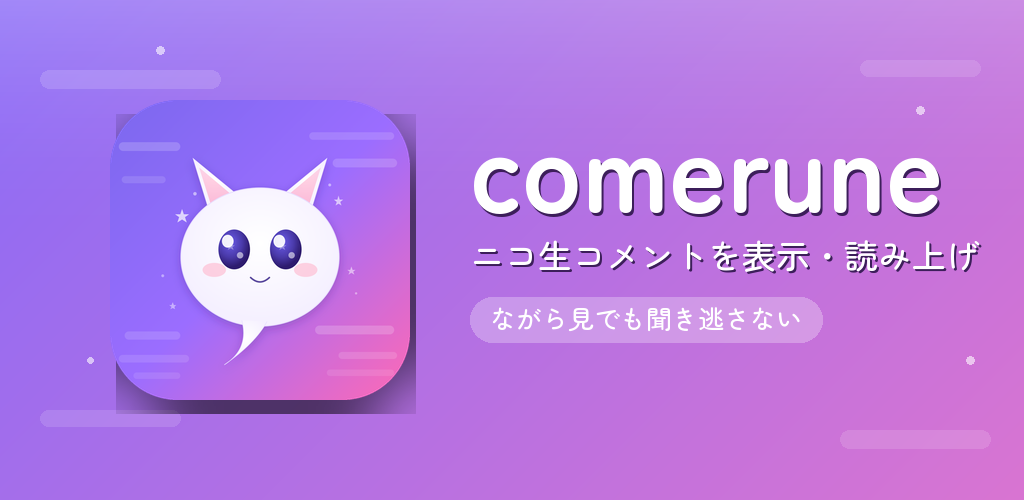
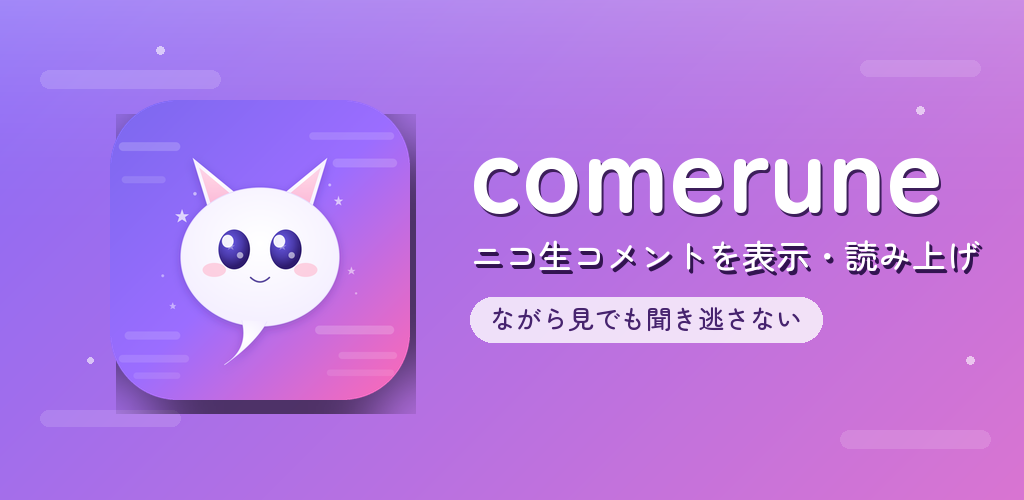
chore(play-store): move generator under scripts/google_play/ and improve contrast
- scripts/generate-play-store-feature-graphic.py
  → scripts/google_play/generate-feature-graphic.py
- scripts/fetch-play-store-fonts.sh
  → scripts/google_play/fetch-fonts.sh
- scripts/fonts/ → scripts/google_play/fonts/ (引き続き .gitignore)
- 内部の参照パスとフォント取得先ディレクトリを更新
- デザイナーレビュー反映: サブコピーは多重ドロップシャドウで AA(3:1) を確保し、
  キャッチピル内の文字を深紫 (#46236e) にして半透明白プレート上で読みやすく

https://claude.ai/code/session_01Lvd1uykLmiU1AKgUGvPr9s

Changed region(s): [[0.4375, 0.48, 0.9688, 0.69]]

diff --git a/scripts/google_play/generate-feature-graphic.py b/scripts/google_play/generate-feature-graphic.py
@@ -5,7 +5,7 @@ Output: android/fastlane/metadata/android/ja-JP/images/featureGraphic.png
 
 優先フォント:
 - Zen Maru Gothic Medium / Bold (柔らかい丸ゴシック、SIL OFL)
-  - `bash scripts/fetch-play-store-fonts.sh` で scripts/fonts/ に取得
+  - `bash scripts/google_play/fetch-fonts.sh` で scripts/google_play/fonts/ に取得
   - 取得できない環境では IPAGothic にフォールバック
 """
 from __future__ import annotations
@@ -16,7 +16,8 @@ from pathlib import Path
 
 from PIL import Image, ImageDraw, ImageFilter, ImageFont
 
-ROOT = Path(__file__).resolve().parent.parent
+SCRIPT_DIR = Path(__file__).resolve().parent
+ROOT = SCRIPT_DIR.parent.parent
 ICON_PATH = ROOT / "icon_source.png"
 OUT_PATH = ROOT / "android/fastlane/metadata/android/ja-JP/images/featureGraphic.png"
 
@@ -25,7 +26,7 @@ W, H = 1024, 500
 COLOR_TOP_LEFT = (139, 107, 247)
 COLOR_BOTTOM_RIGHT = (217, 117, 210)
 
-LOCAL_FONT_DIR = ROOT / "scripts" / "fonts"
+LOCAL_FONT_DIR = SCRIPT_DIR / "fonts"
 
 SOFT_FONT_REGULAR_CANDIDATES = [
     LOCAL_FONT_DIR / "ZenMaruGothic-Medium.ttf",
@@ -193,7 +194,8 @@ def main() -> int:
 
     sub_top = block_top + title_visual_h + gap_title_sub
     sy = sub_top - sub_visual_top
-    draw.text((tx + 2, sy + 2), subtitle, font=sub_font, fill=(60, 30, 90, 120))
+    for ox, oy, alpha in ((3, 4, 170), (2, 3, 130)):
+        draw.text((tx + ox, sy + oy), subtitle, font=sub_font, fill=(50, 20, 80, alpha))
     draw.text((tx, sy), subtitle, font=sub_font, fill=(255, 255, 255, 255))
 
     tag_plate_top = sub_top + sub_visual_h + gap_sub_tag
@@ -203,8 +205,8 @@ def main() -> int:
         tx + tag_w + tag_pad_x * 2,
         tag_plate_top + tag_plate_h,
     )
-    draw_plate(bg, tag_plate_box, radius=tag_plate_h // 2, fill=(255, 255, 255, 70))
-    draw.text((tx + tag_pad_x, tag_plate_top + tag_pad_y - gbbox[1]), tag, font=tag_font, fill=(255, 255, 255, 255))
+    draw_plate(bg, tag_plate_box, radius=tag_plate_h // 2, fill=(255, 255, 255, 200))
+    draw.text((tx + tag_pad_x, tag_plate_top + tag_pad_y - gbbox[1]), tag, font=tag_font, fill=(70, 35, 110, 255))
 
     final = bg.convert("RGB")
     OUT_PATH.parent.mkdir(parents=True, exist_ok=True)
